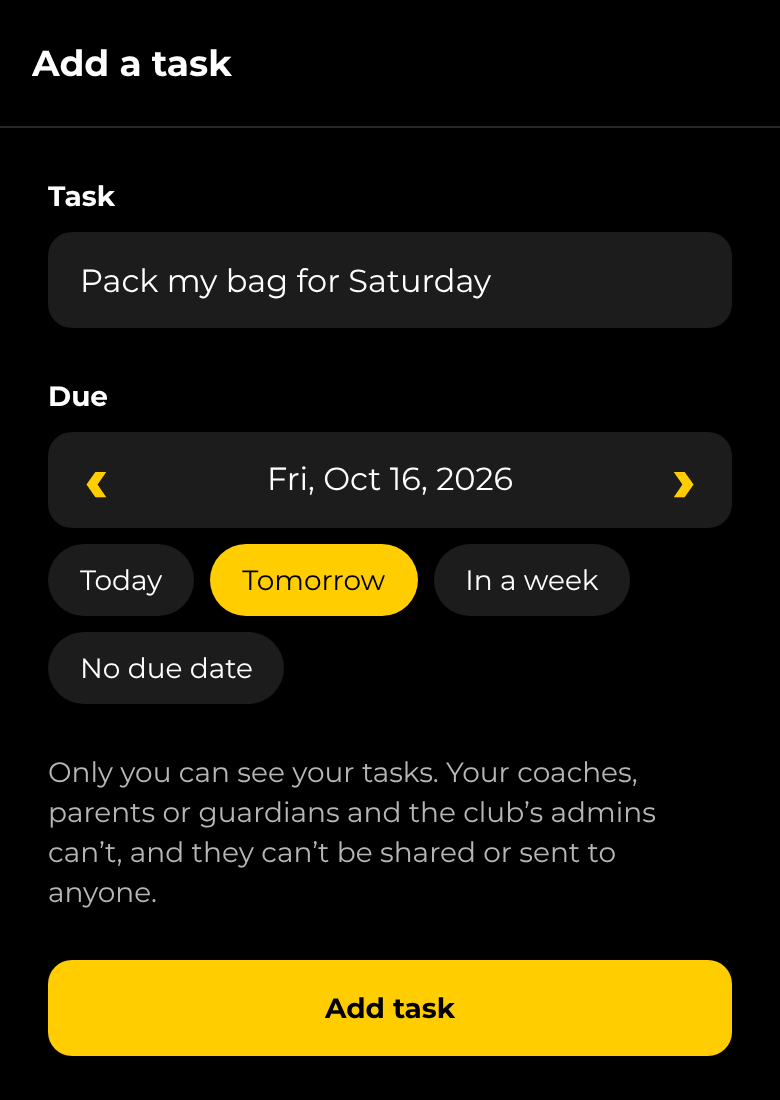
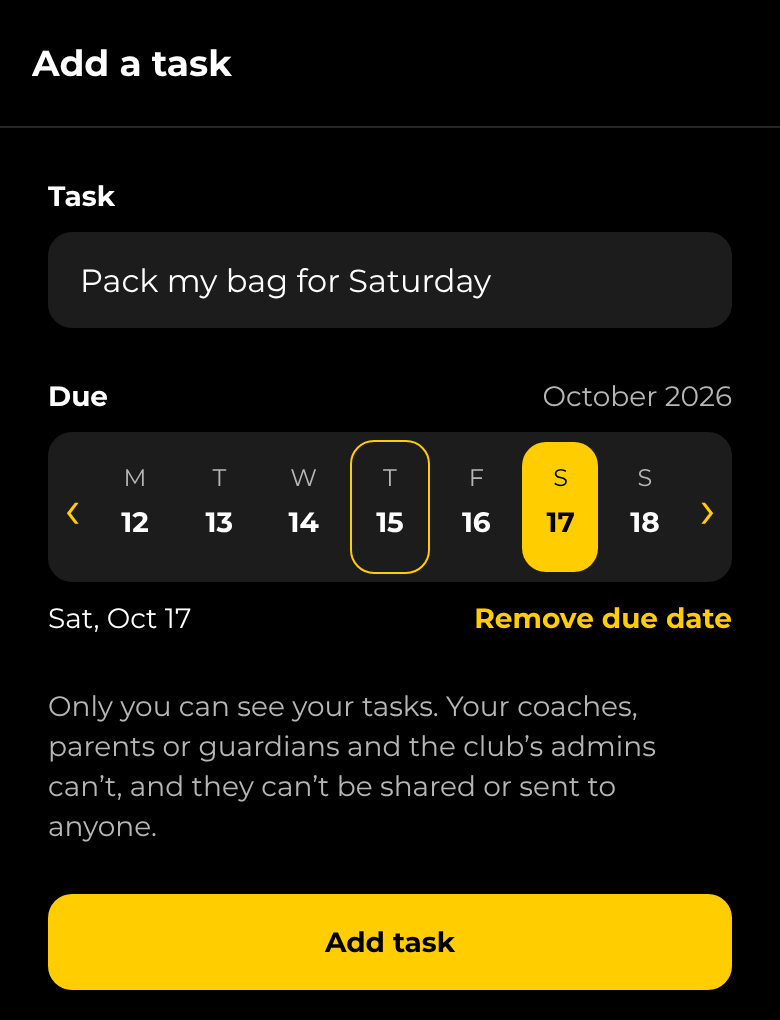
Pick a task's due date from a week view
Matt asked for a week view date picker. The due date now uses the
calendar's week strip, Monday to Sunday with arrows between weeks, and
a Remove due date button.

Claude-Session: https://claude.ai/code/session_011QN7hPESRWt1DiMGu2a2hk

diff --git a/src/components/week-date-field.tsx b/src/components/week-date-field.tsx
@@ -1,0 +1,84 @@
+import { useState } from 'react';
+import { Pressable, StyleSheet, View } from 'react-native';
+
+import { ThemedText } from '@/components/themed-text';
+import { WeekStrip } from '@/components/week-strip';
+import { Spacing } from '@/constants/theme';
+import { useTheme } from '@/hooks/use-theme';
+import { addDays, dayKey, formatMonth, formatShortDay, startOfWeek } from '@/lib/format';
+import { parseDateString, toDateString } from '@/lib/injuries';
+
+const NO_DAYS = new Map<string, string[]>();
+
+/**
+ * Picks a day from a week at a time, Monday to Sunday, with arrows to move
+ * between weeks. `value` is a "2026-10-07" style date, or null for none.
+ */
+export function WeekDateField({
+  label,
+  value,
+  onChange,
+  emptyLabel,
+  clearLabel,
+}: {
+  label: string;
+  value: string | null;
+  onChange: (value: string | null) => void;
+  /** Shown when no day is picked. */
+  emptyLabel: string;
+  /** The button that un-picks the day. */
+  clearLabel: string;
+}) {
+  const theme = useTheme();
+  const picked = value ? parseDateString(value) : null;
+  const [weekStart, setWeekStart] = useState(() => startOfWeek(picked ?? new Date()));
+
+  return (
+    <View style={styles.field}>
+      <View style={styles.header}>
+        <ThemedText type="smallBold">{label}</ThemedText>
+        {/* Thursday decides the month, so a week across two months takes the one it mostly sits in. */}
+        <ThemedText type="small" themeColor="textSecondary">
+          {formatMonth(addDays(weekStart, 3))}
+        </ThemedText>
+      </View>
+      <View style={[styles.strip, { backgroundColor: theme.backgroundElement }]}>
+        <WeekStrip
+          weekStart={weekStart}
+          eventDays={NO_DAYS}
+          selectedDay={picked ? dayKey(picked) : null}
+          onSelect={(date) => onChange(toDateString(date))}
+          onChangeWeek={setWeekStart}
+        />
+      </View>
+      <View style={styles.header}>
+        <ThemedText type="small" themeColor={picked ? undefined : 'textSecondary'}>
+          {picked ? formatShortDay(picked) : emptyLabel}
+        </ThemedText>
+        {picked ? (
+          <Pressable accessibilityRole="button" hitSlop={8} onPress={() => onChange(null)}>
+            <ThemedText type="smallBold" style={{ color: theme.tint }}>
+              {clearLabel}
+            </ThemedText>
+          </Pressable>
+        ) : null}
+      </View>
+    </View>
+  );
+}
+
+const styles = StyleSheet.create({
+  field: {
+    gap: Spacing.two,
+  },
+  header: {
+    flexDirection: 'row',
+    alignItems: 'center',
+    justifyContent: 'space-between',
+    gap: Spacing.two,
+  },
+  strip: {
+    borderRadius: 12,
+    padding: Spacing.one,
+  },
+});

diff --git a/src/components/task-form.tsx b/src/components/task-form.tsx
@@ -1,10 +1,10 @@
 import { router } from 'expo-router';
 import { useEffect, useState } from 'react';
 
-import { DateField } from '@/components/date-field';
 import { Screen } from '@/components/screen';
 import { ThemedText } from '@/components/themed-text';
 import { Button, ConfirmDelete, ErrorText, TextField } from '@/components/ui';
+import { WeekDateField } from '@/components/week-date-field';
 import { deleteTask, loadTask, saveTask } from '@/lib/personal-tasks';
 
 /** Adds one of the member's own tasks, or changes or deletes one (`id`). */
@@ -79,18 +79,16 @@ export function TaskForm({ id = null }: { id?: string | null }) {
         returnKeyType="done"
         onSubmitEditing={save}
       />
-      <DateField
-        label="Due"
-        value={dueOn}
-        onChange={setDueOn}
-        optional
-        emptyLabel="No due date"
-        quickPicks={[
-          { label: 'Today', days: 0 },
-          { label: 'Tomorrow', days: 1 },
-          { label: 'In a week', days: 7 },
-        ]}
-      />
+      {/* Waits for the task, so the week opens on its due date. */}
+      {loading ? null : (
+        <WeekDateField
+          label="Due"
+          value={dueOn}
+          onChange={setDueOn}
+          emptyLabel="No due date"
+          clearLabel="Remove due date"
+        />
+      )}
       <ThemedText type="small" themeColor="textSecondary">
         Only you can see your tasks. Your coaches, parents or guardians and the club’s admins can’t,
         and they can’t be shared or sent to anyone.

diff --git a/src/components/date-field.tsx b/src/components/date-field.tsx
@@ -17,7 +17,6 @@ export function DateField({
   quickPicks,
   max,
   optional = false,
-  emptyLabel = 'Not sure',
 }: {
   label: string;
   value: string | null;
@@ -25,8 +24,6 @@ export function DateField({
   quickPicks: { label: string; days: number }[];
   max?: string;
   optional?: boolean;
-  /** The choice that leaves an optional date unset. */
-  emptyLabel?: string;
 }) {
   const theme = useTheme();
   const today = toDateString(new Date());
@@ -44,11 +41,8 @@ export function DateField({
     return toDateString(date);
   }
 
-  const options = quickPicks.map((pick) => ({
-    value: fromToday(pick.days),
-    label: pick.label,
-  }));
-  if (optional) options.push({ value: '', label: emptyLabel });
+  const options = quickPicks.map((pick) => ({ value: fromToday(pick.days), label: pick.label }));
+  if (optional) options.push({ value: '', label: 'Not sure' });
 
   return (
     <View style={styles.field}>
@@ -56,11 +50,7 @@ export function DateField({
       <View style={[styles.row, { backgroundColor: theme.backgroundElement }]}>
         <Arrow label="Day before" symbol="‹" onPress={() => shift(-1)} />
         <ThemedText style={styles.value}>
-          {value
-            ? formatDateString(value)
-            : emptyLabel === 'Not sure'
-              ? 'Not sure yet'
-              : emptyLabel}
+          {value ? formatDateString(value) : 'Not sure yet'}
         </ThemedText>
         <Arrow
           label="Day after"

diff --git a/docs/user-guide.md b/docs/user-guide.md
@@ -288,8 +288,9 @@ Pull down on any screen to refresh it.
 You can add your own tasks to your to-do list, such as "Wash my training kit" or "Book a physio
 follow-up". They sit under what the club needs from you, marked **Personal**, soonest due first.
 
-- **Add one**: tap **+ Add a task** at the bottom of your to-do list, say what it is, pick a due
-  date or **No due date**, and tap **Add task**.
+- **Add one**: tap **+ Add a task** at the bottom of your to-do list and say what it is. To give
+  it a due date, tap a day in the week (the arrows move a week at a time); leave it for no due
+  date, or tap **Remove due date** to take one off. Then tap **Add task**.
 - **Tick it off**: tap the circle next to it. It leaves your list, and **Undo** puts it back if
   you tapped by mistake.
 - **Change or delete it**: tap the task, change it and tap **Save**, or tap **Delete task**.
